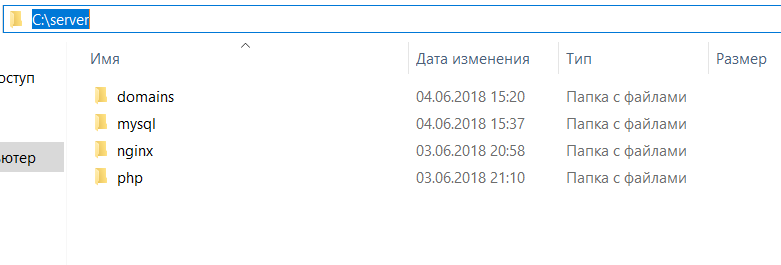
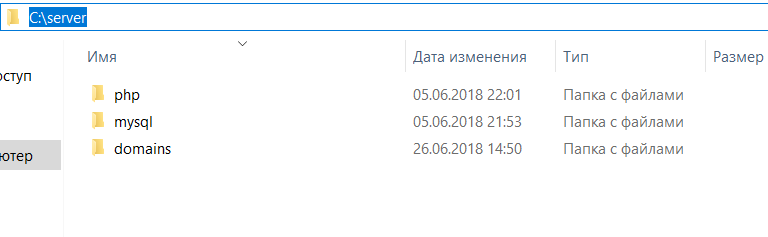
Убрали из инструкции nginx

diff --git a/Guides/inst.html b/Guides/inst.html
@@ -1,19 +1,11 @@
 <h1> Инструкция по настройке рабочего пространства для комфортного обучения на курсе </h1>
 
-<p>Если вы не используете готовые сборки, например OpenServer, и решили установить все по отдельности то эта инструкция для Вас.</p>
-<p>Данная инструкция будет полезна начинающим WEB-разработчикам, которые собираются установить на своем ПК с ОС Windows WEB-сервер Nginx с интерпретатором PHP последних версий. <br>Конечно же, намного проще установить сборку или прибегнуть к использованию
-    инсталляторов и не париться по поводу настроек. <br> Однако каждый WEB-разработчик <b>обязан</b> понимать процесс работы WEB-сервера, процесс его установки и настройки.</p>
-
 <h2>Подготовительные работы</h2>
-
-<p>Удалите все WEB-серверы, которые устанавливали до этого, зайдите в службы и убедитесь, что там нет служб Apache или IIS. Если у вас уже установлен какой-либо веб-сервер, второй параллельно скорее всего не заработает вовсе.</p>
-
-<p>Если у Вас есть Скайп, обязательно отключите в настройках использование 80 порта. В конечном итоге Вы должны убедиться, что ни одна служба не использует 80й порт.</p>
 
 <p>Для работы очень желательно иметь файловый менеджер, позволяющий создавать файлы с любыми расширениями, либо, что еще лучше, редактор кода, напрмиер <a href="https://atom.io/">Atom</a> или <a href="https://www.jetbrains.com/phpstorm/">PhpStorm</a>.</p>
 
 <p>Структура папок может быть различной, однако данная инструкция написана под определенную структуру и, если ей следовать, всё гарантированно заработает.</p>
-<p>Перед тем как начать, создайте на диске C папку server, внутри которой создайте 4 подпапкок: nginx, php, mysql, domains. Именно так. Без указания номеров версий.</p>
+<p>Перед тем как начать, создайте на диске C папку server, внутри которой создайте 3 подпапки:  php, mysql, domains. Именно так. Без указания номеров версий.</p>
 <p><img src="img/structura.png" alt=""></p>
 
 <p>В каталоге domains создаем еще 2 папки: localhost и phpmyadmin</p>
@@ -30,25 +22,6 @@
 <p>Так же в папку host (C:\Windows\System32\drivers\etc), добавьте следующие строки (без знака <b>#</b>): <br>127.0.0.1 localhost <br>
 127.0.0.1 phpmyadmin</p>
 <p>В будущем, если вы решите создавать свои домены не забудте их прописать в файле host по аналогии.</p>
-
-<h2>Установка Nginx</h2>
-<ol>
-    <li>
-        <p>Переходим  по <a href="https://nginx.ru/ru/download.html">ссылке</a> и скачиваем <b>стабильную версию</b>.</p>
-    </li>
-    <p><img src="img/ins_nginx.png" alt=""></p>
-    <li>
-        <p>Распакуем файлы из архива в нашу папку <b>nginx</b>, которая находится в папке <b>server</b>.</p>
-    </li>
-</ol>
-<p>На этом этап установки завершен. Чтобы убедится, что вы все сделали правильно, зайдите в папку nginx и запустит nginx.exe</p>
-<p><img src="img/start_ng.png" alt=""></p>
-<p>Затем в браузере введите <b>http://localhost</b> и вы должны увидеть следующее:</p>
-<p><img src="img/welc_ng.png" alt=""></p>
-<p>Чтобы остановить сервер в командной строке прописываем: taskkill /f /IM nginx.exe</p>
-
-
-
 
 <h2> Установка PHP </h2>
 
@@ -93,78 +66,53 @@
 <p><img src="img/inst_pma2.png"  width="50%" height="80%" alt=""></p>
 <p>Логин для входа - root <br>Пароль - тот который указали при установке MySQL</p>
 
-<h2>Настройка Nginx и PHP</h2>
+<h2>Настройка PHP</h2>
 
-<p>Начнем с Nginx</p>
-
-    <p>Откройте файл конфигурации Nginx в редакторе кода</p>
-    <p><img src="img/con_ng.png"  width="50%" height="80%" alt=""></p>
-    <p>Подробно описывать каждую строку конфигурации в данной инструкции нет смысла, т.к. на этапе обучения они вам вряд ли понадобятся, но если интересно можете почитать более подробно в официальной документации.</p>
-    <p>Найдем блок server и заменим его содержиоме на следующтй код:</p>
-    <pre>server
-    {
-        listen 80 default;
-        server_name ~^(www\.)?(?&lt;domain&gt;.+)$;
-
-        server_tokens off;
-
-        #charset koi8-r;
-
-        #access_log logs/access.log  main;
-        location /
-        {
-            root c:/server/domains/$domain/;
-            index index.php index.html index.htm;
-
-            location ~ \.php$
-            {
-                fastcgi_pass 127.0.0.1:9000;
-                fastcgi_index index.php;
-                fastcgi_param SCRIPT_FILENAME $document_root$fastcgi_script_name;
-                include fastcgi_params;
-            }
-        }
-
-
-        #error_page 404 /404.html;
-
-        error_page 500 502 503 504 /50x.html;
-        location = /50x.html
-        {
-            root html;
-        }
-    }</pre>
-
-<p>В итоге должно получится так:</p>
-<p><img src="img/con_ng2.png" width="50%" height="80%" alt=""></p>
-
-<p>Далее настройки PHP</p>
 <p>Перейдем в c:/server/php и найдем файл php.ini (возможно у вас  их будет 2 и они будут с префиксами, тогда просто переимнуйте php.ini-development в php.ini)</p>
 <p>Открывем его и нажимаем Ctrl+F, в строке поиска прописываем extension_dir</p>
 <p><img src="img/con_php.png" width="50%" height="80%" alt=""></p>
 <p>В строке  ;extension_dir = "ext" убираем ";", чтобы получилось как на скриншоте выше.(732 строка)</p>
 <p>Далее в строке поиска прописываем "extension=mysqli" и так же убираем ";", чтобы получилось как на скриншоте снизу</p>
-<p><img src="img/con_php2.png" alt=""></p>
+<p><img src="img/con_php2.png" width="50%" height="80%" alt=""></p>
 <p>Сохраняем изменения и закрываем файл.</p>
+<p>Так же нужно добавить папку с PHP в переменную окружения PATH. Для этого:</p>
+<ul>
+	<li>Открываем Панель управления->Система->Дополнительные параметры системы->Переменные среды</li>
+	<p><img src="img/path_1.png" width="50%" height="60%" alt=""></p>
+	<p><img src="img/path_2.png"  alt=""></p>
+	<li>Выбираем переменную Path и нажимаем изменить</li>
+	<p><img src="img/path_3.png"  alt=""></p>
+	<li>Нажимаем создать и пишем путь к папке php</li>
+	<p><img src="img/path_gif.gif"  alt=""></p>
+</ul>
 
 <h2>Запуск и остановка сервера.</h2>
-<p>Для запуска сервера в папке nginx создайте файл start.bat со следующим содержанием:</p>
-<pre>
-    @ECHO OFF
-    start C:\server\nginx\nginx.exe
-    start C:\server\php\php-cgi.exe -b 127.0.0.1:9000 -c C:\server\php\php.ini
-    ping 127.0.0.1 > NUL
-    echo Starting nginx
-    ping 127.0.0.1 > NUL
-    EXIT
-</pre>
+<p>Для запуска наших скриптов будем использовать встроенный веб-сервер.</p>
+<p>Откроем командную строку, для этого нажмите сочетание клавиш Windows + R и пропишите команду cmd</p>
+<p>Чтобы запустить веб-сервер пропишем следующие команды:</p>
+<ul>
+	<li>
+		<code>
+			cd ../../../server/domains/localhost - переходим в папку с нашими скриптами
+		</code>
+	</li>
+	<li>
+		<code>
+			php -S localhost:8000 - запускаем веб-сервер
+		</code>
+		<p>В консоли выведется: <br><img src="img/php_serv.png" alt=""></p>
+	</li>
+</ul>
+<p>В браузере прописываем http://localhost:8000/index.php и если все сделали правильно, то вы увидите ваш скрипт, который мы создали в самом начале<br><img src="img/php_serv_start.png" alt="" width="50%" height="80%"></p>
+<p>Для остановки сервера нажмите сочетание клавиш Ctrl+C</p>
 
-<p>И файл stop.bat</p>
-<pre>@ECHO OFF
-taskkill /f /IM nginx.exe
-taskkill /f /IM php-cgi.exe
-EXIT</pre>
-
-<p>Теперь для запуска - запускаем start.bat (появится командное окно php-cgi.exe, его нельзя закрывать!! )</p>
-<p>Для остановки stop.bat</p>
-<p>Все свои проекты создаем в папке domains, чтобы открыть его в браузере, просто вводим http://"название вашей папки"</p>
+<p>Чтобы запустить Phpmyadmin нужо:</p>
+<ul>
+	<li>
+		Перейти в папку где у нас лежит pma
+		<p><code>cd../phpmyadmin</code></p>
+	</li>
+	<li>
+		<p>Запустить веб-сервр и ввести адрес в браузер, как это описано выше.</p>
+	</li>
+</ul>
